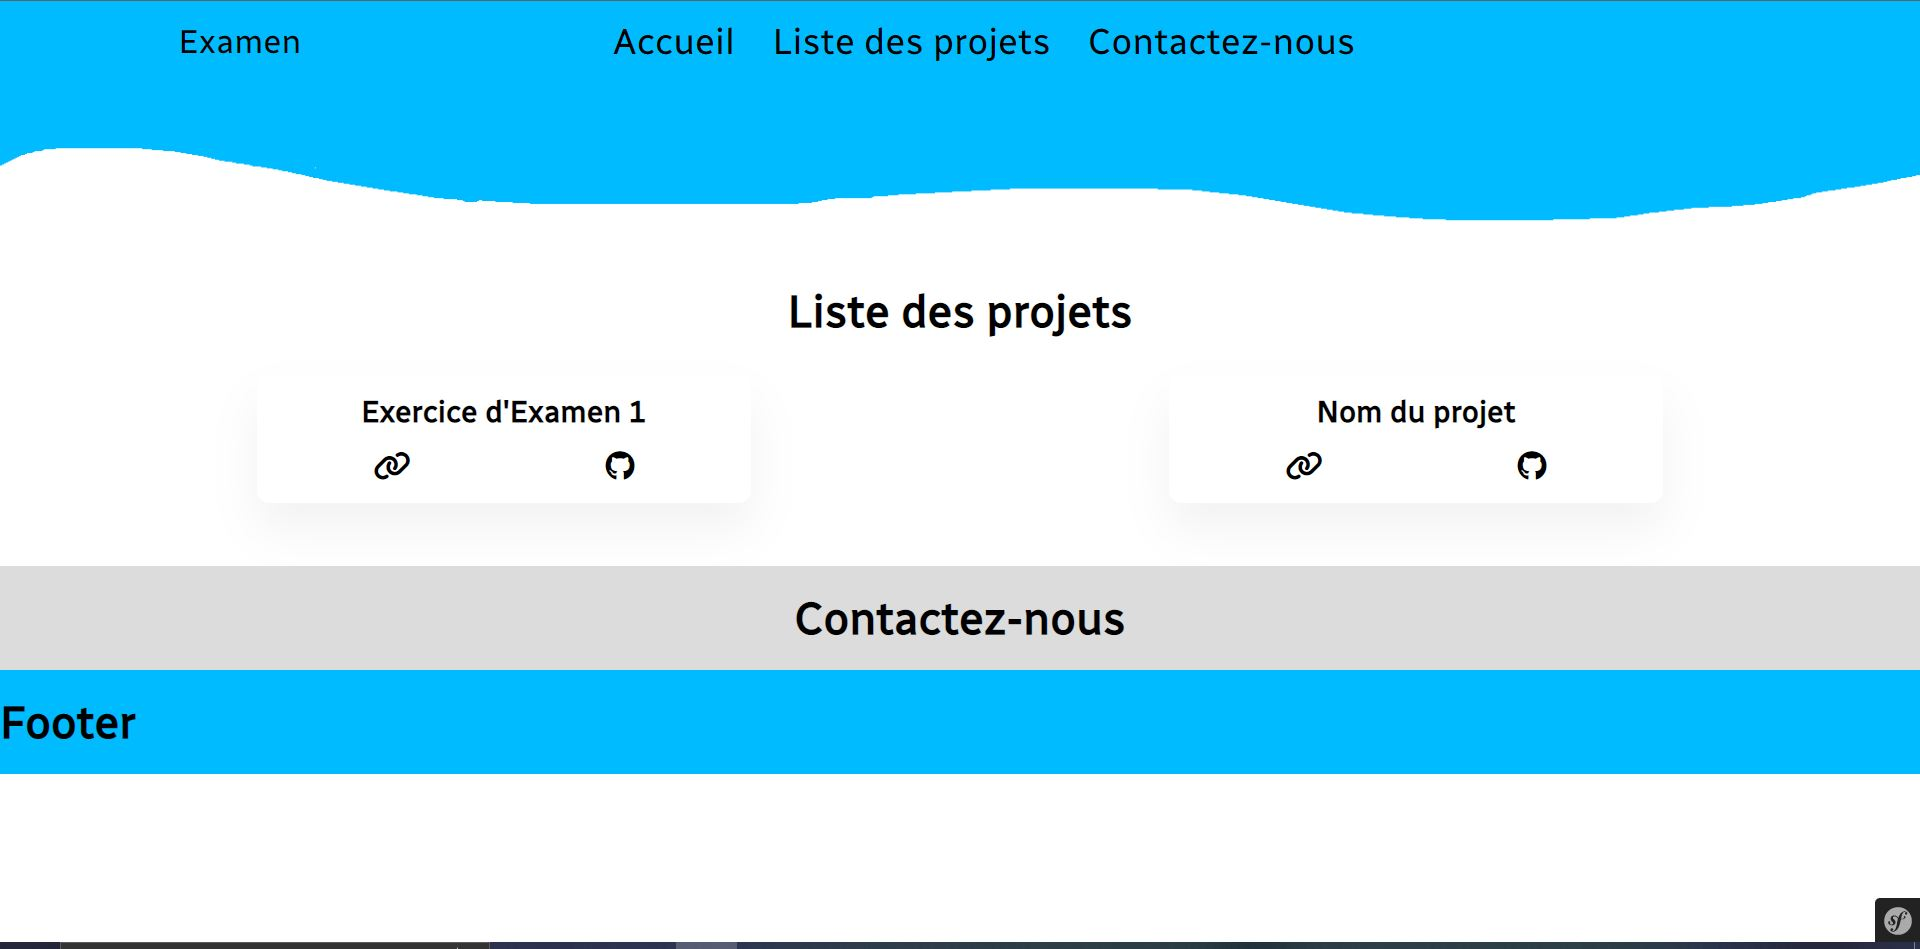
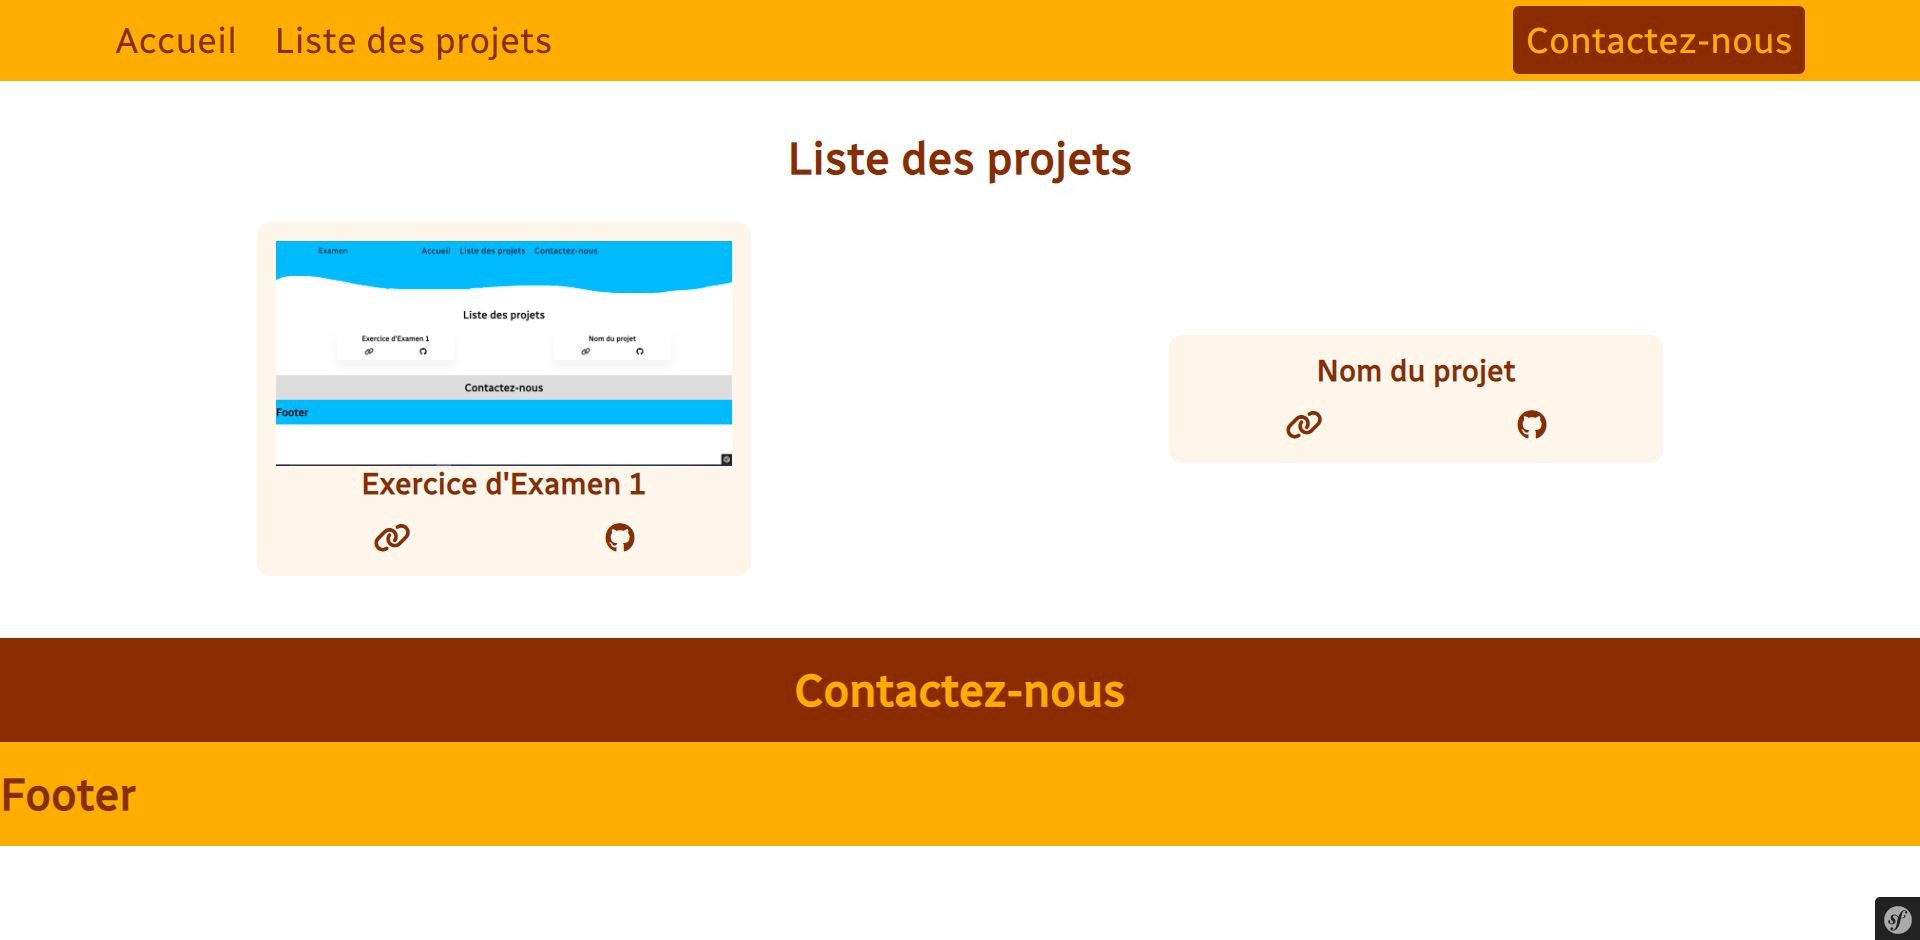
debut footer

diff --git a/assets/styles/app.css b/assets/styles/app.css
@@ -170,14 +170,22 @@ nav {
 /* Footer */
 
 footer {
+    display: flex;
+    flex-direction: column;
+    justify-content: center;
+    align-items: center;
     background-color: #FFAD00;
     padding: 20px 0;
     color: #892C00;
+    font-size: 60%;
 }
 
 /* Responsive */
 
 @media screen and (max-width: 1025px) {
+    nav {
+        justify-content: right;
+    }
     .burger {
         display: flex;
         justify-content: flex-end;
